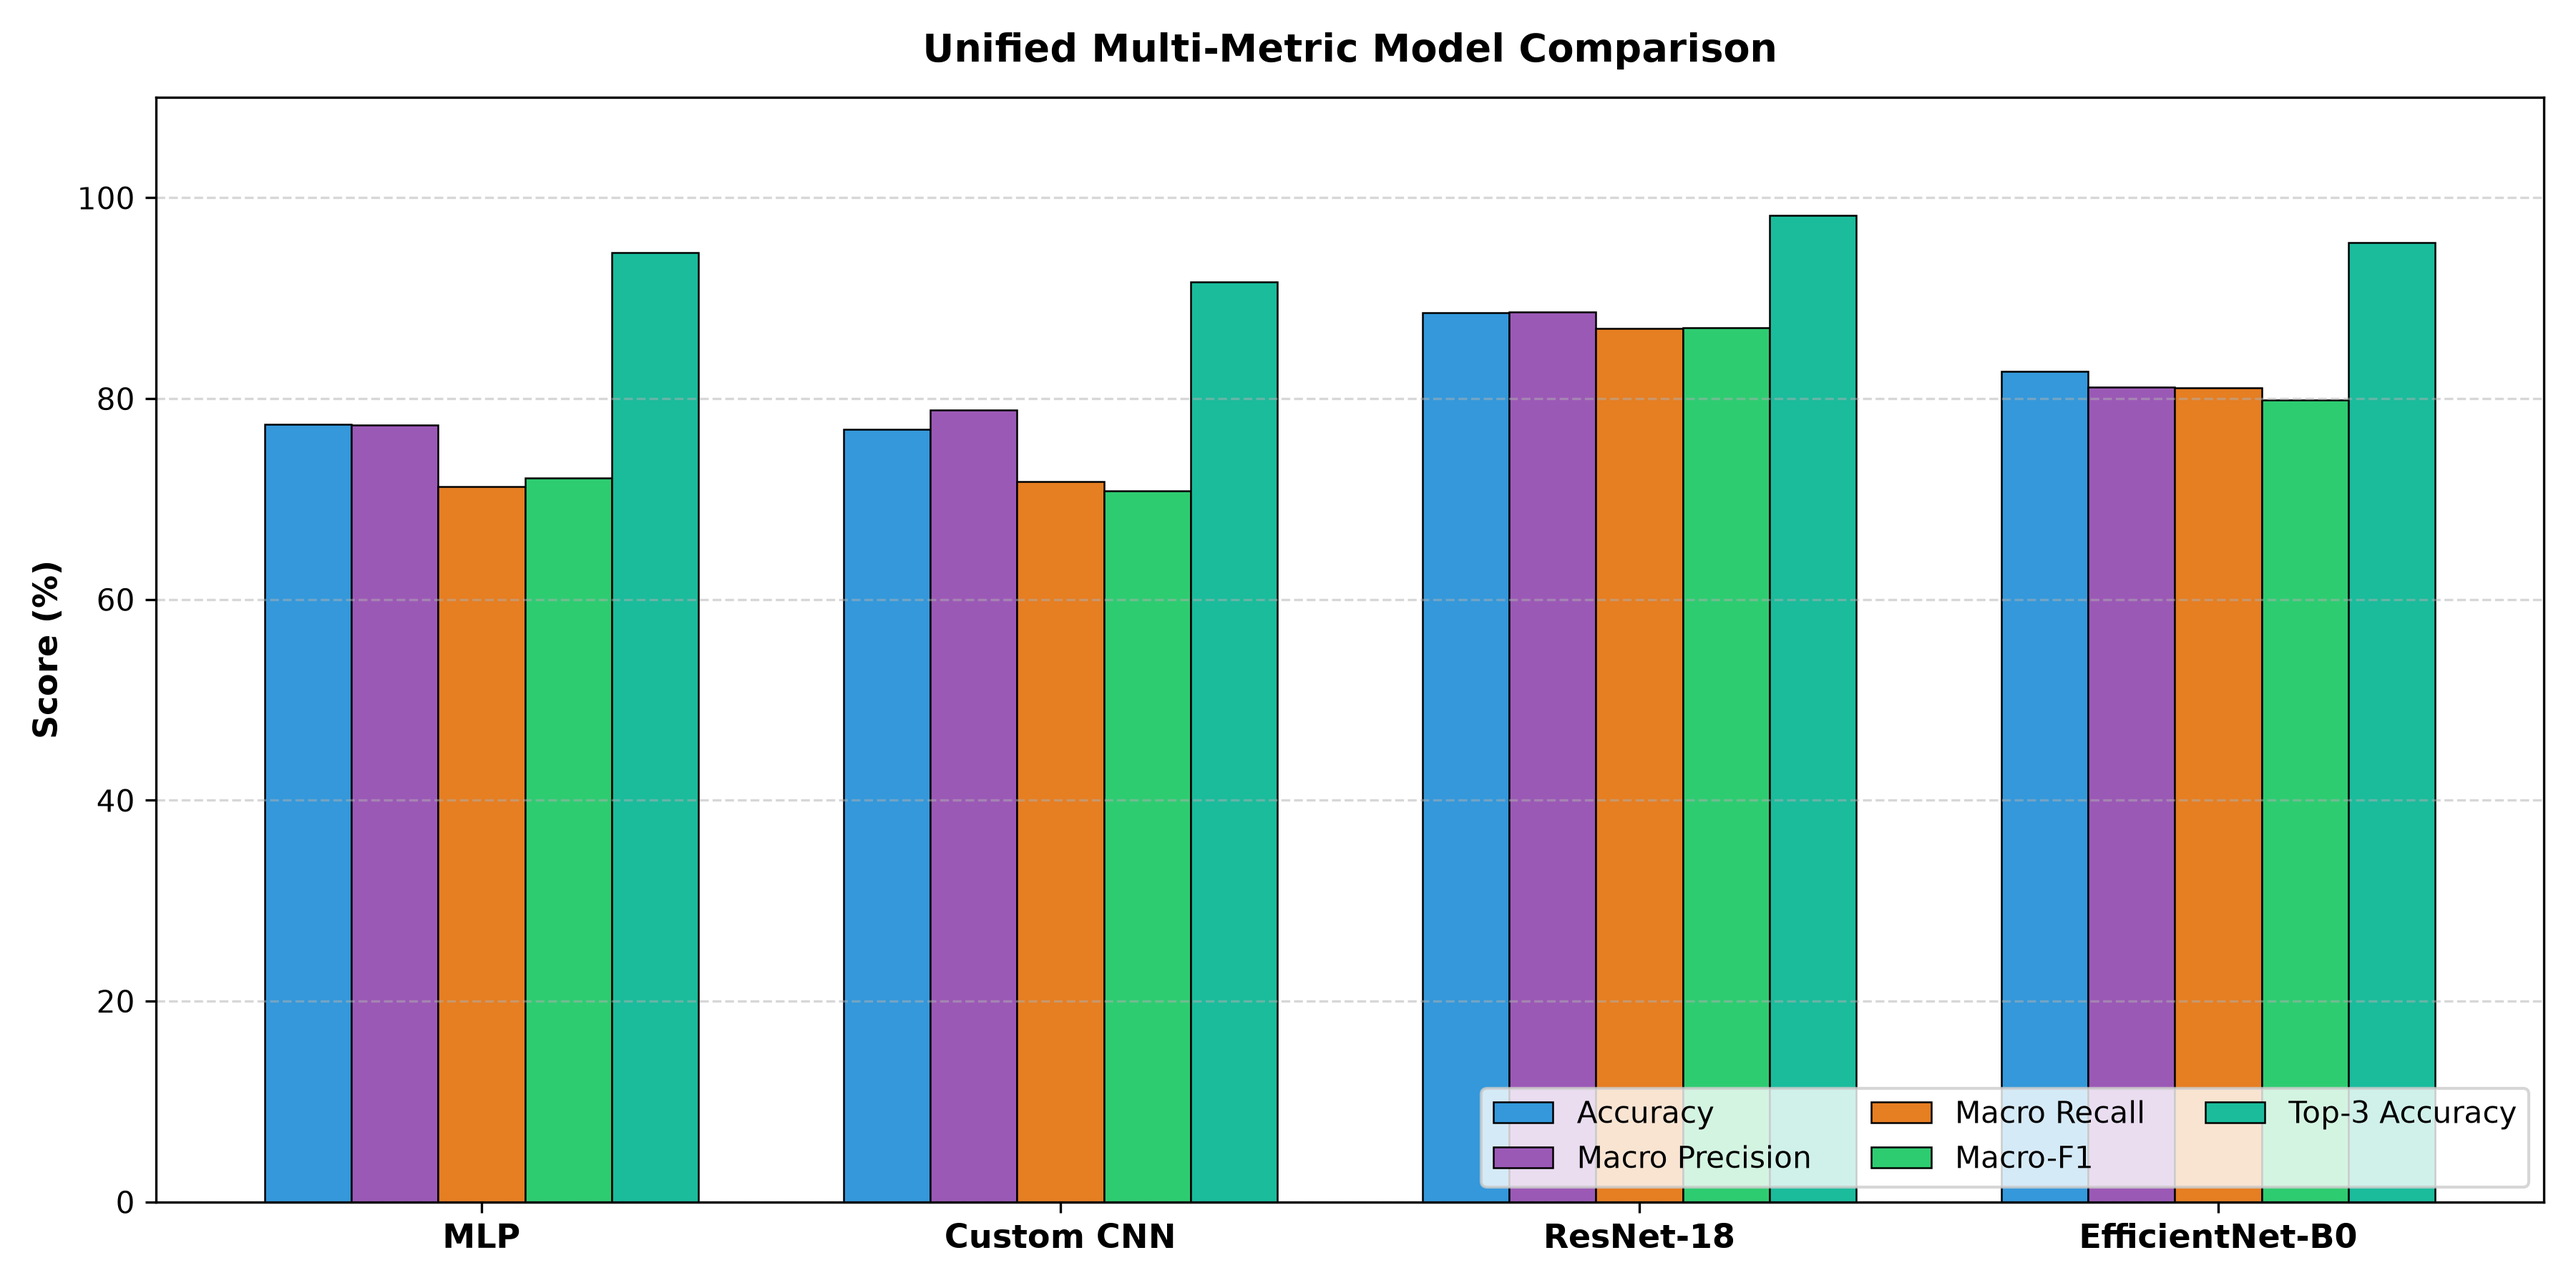
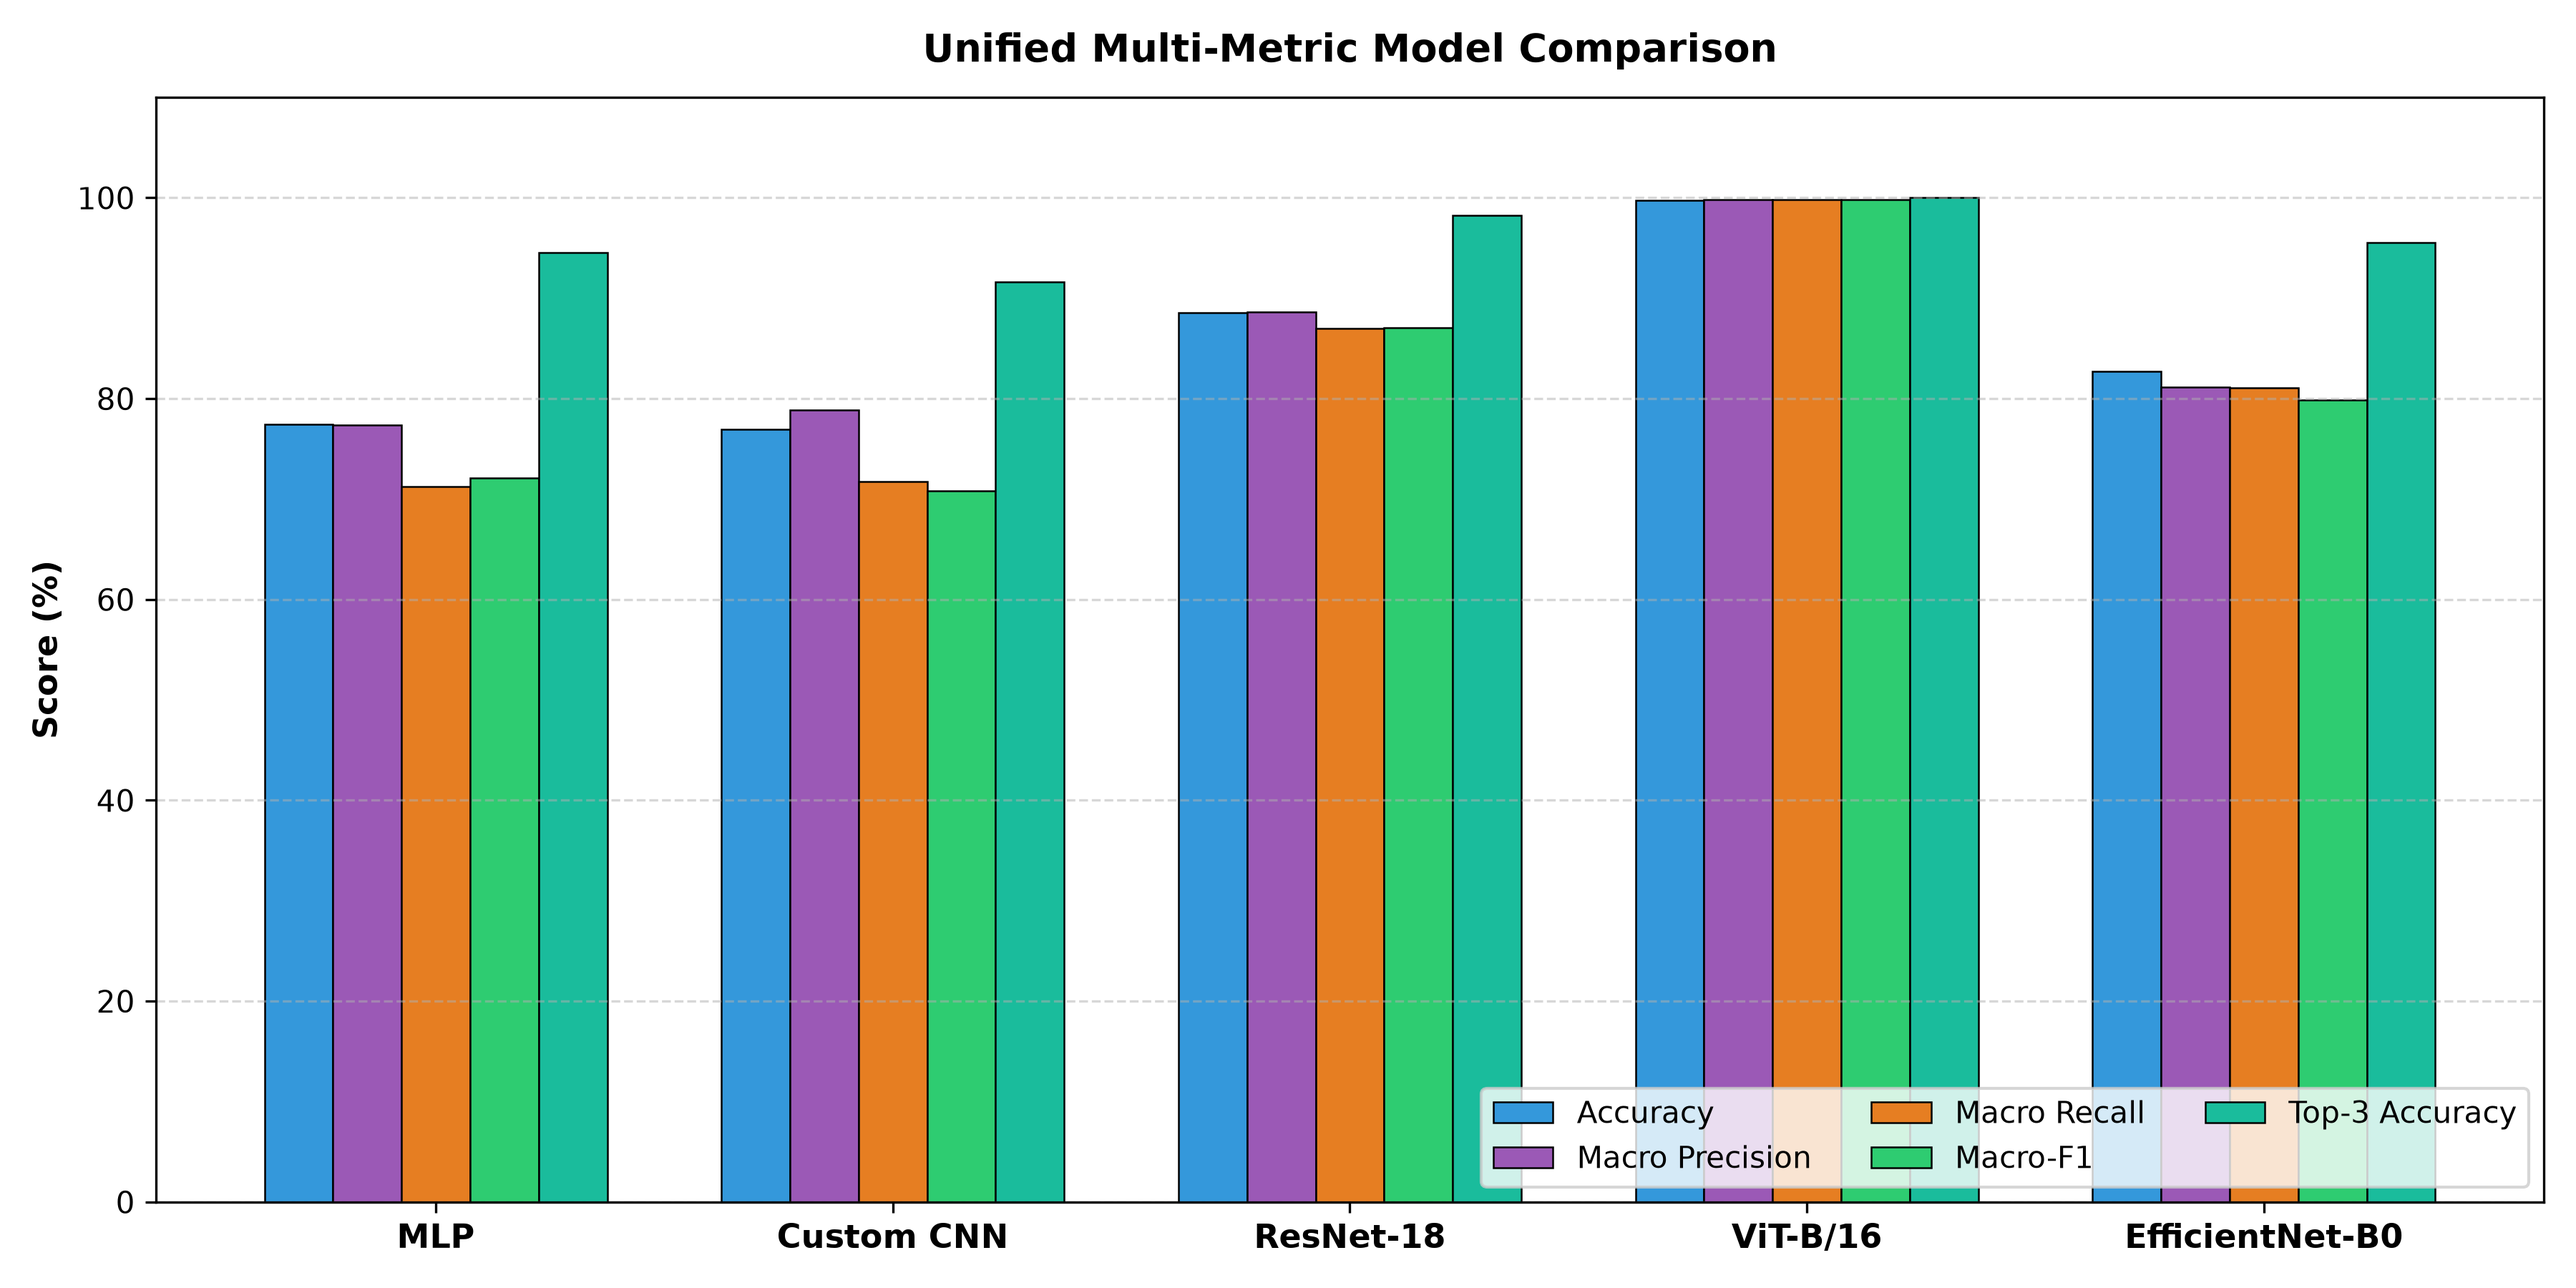
docs: add final ViT results and model comparison

diff --git a/README.md b/README.md
@@ -53,7 +53,7 @@ All quantitative metrics are computed on the held-out **3,096-image test set** u
 | **MLP** | 77.42% | 77.36% | 71.27% | 72.07% | 94.54% |
 | **Custom CNN** | 76.94% | 78.84% | 71.76% | 70.81% | 91.63% |
 | **ResNet-18** | **88.53%** | **88.64%** | **86.97%** | **87.06%** | **98.29%** |
-| **ViT-B/16** | *Pending CUDA* | *Pending CUDA* | *Pending CUDA* | *Pending CUDA* | *Pending CUDA* |
+| **ViT-B/16** | 99.77% | 99.79% | 99.80% | 99.79% | 100.00% |
 
 ### Additional Reference Benchmark
 
@@ -61,7 +61,7 @@ All quantitative metrics are computed on the held-out **3,096-image test set** u
 | :--- | :---: | :---: | :---: | :---: | :---: |
 | **EfficientNet-B0** | 82.69% | 81.13% | 81.10% | 79.89% | 95.51% |
 
-> *Note: ViT-B/16 architecture integration and smoke validation pipeline are verified; official full-dataset 23-epoch fine-tuning is scheduled for execution upon CUDA acceleration availability.*
+> *Note: ViT-B/16 architecture integration and official full-dataset 23-epoch fine-tuning were executed and verified with CUDA acceleration.*
 
 ---
 
